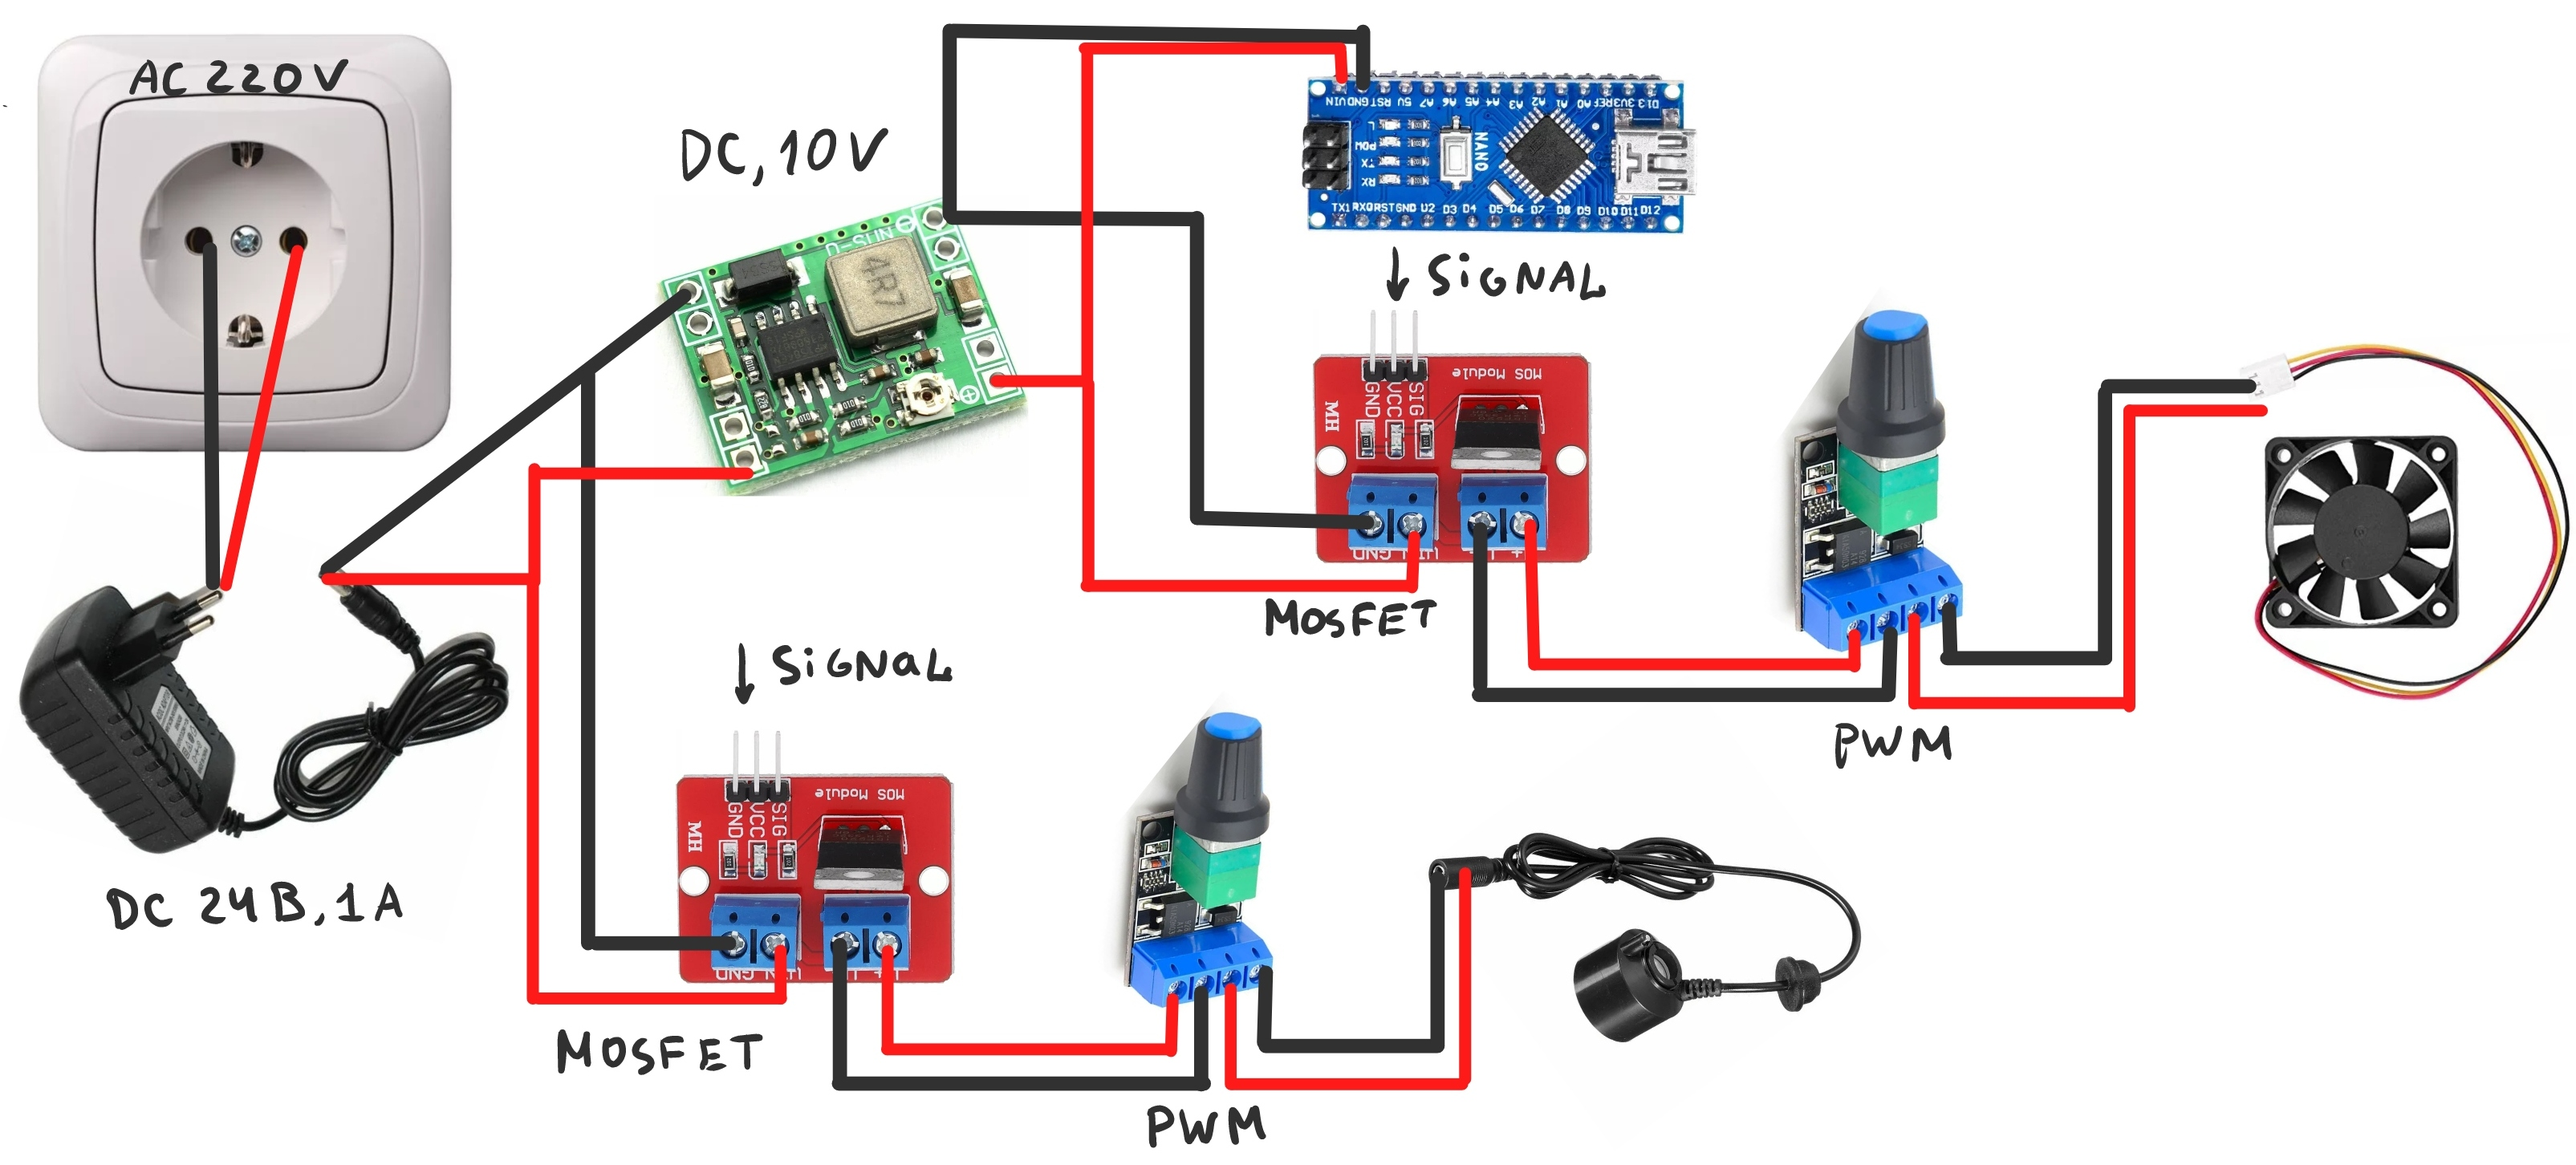
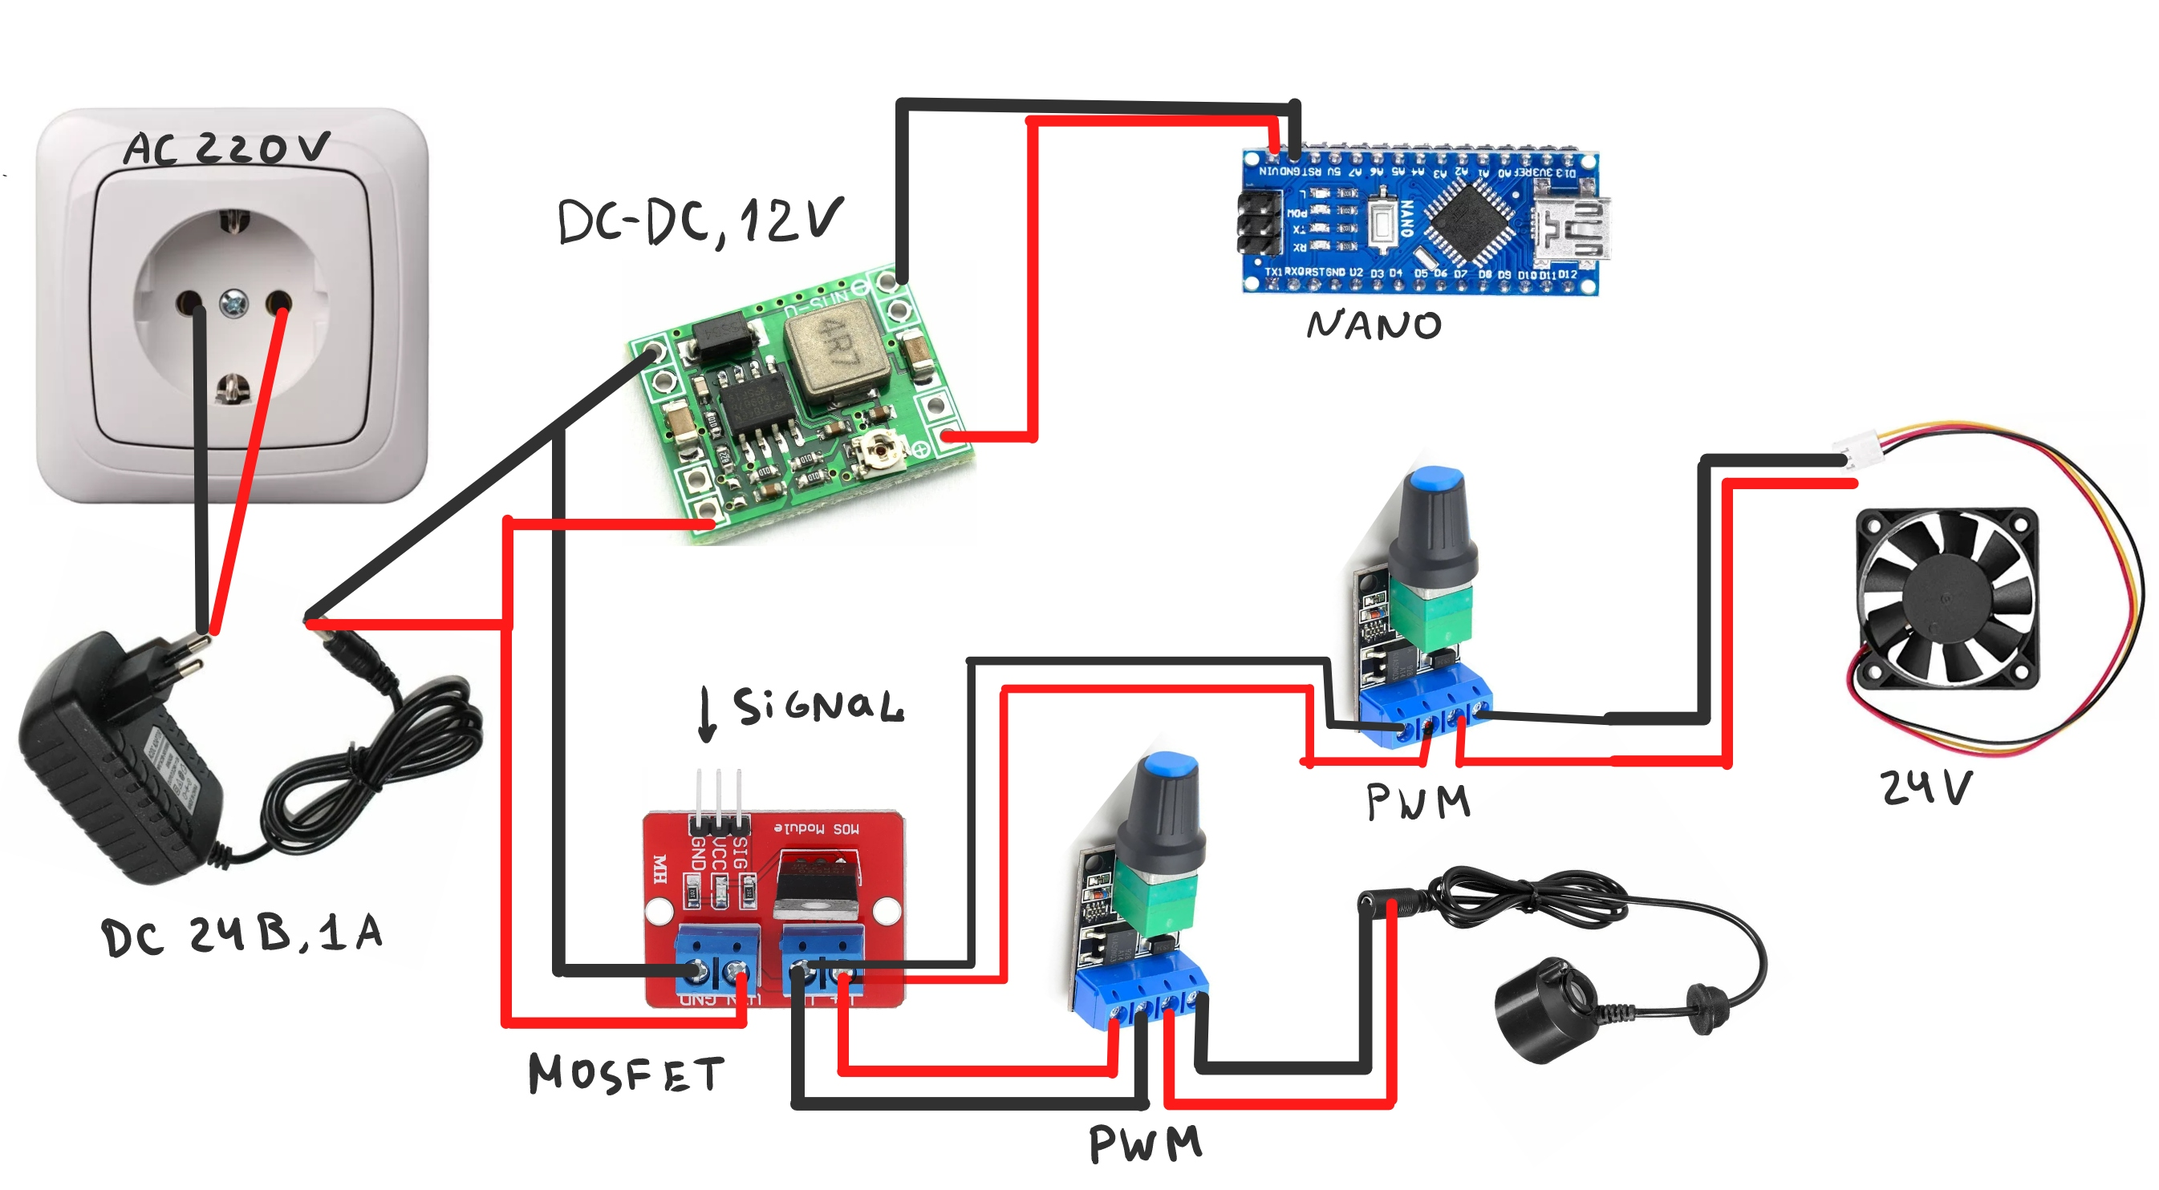
fix bug in script, change scheme

diff --git a/README.md b/README.md
@@ -63,9 +63,9 @@
 
 Испаритель воды получает 24В (номинальные) при этом регулируемые через ШИМ. Также подача питания на него регулируется MOSFET транзистором.
 
-Остальные элементы имеют номинал 10В, поэтому используется понижающий преобразователь DC-DC.
+Остальные элементы имеют номинал 12В, поэтому используется понижающий преобразователь DC-DC для питания Arduino Nano.
 
-На вентилятор подается 10В через ШИМ и MOSFET транзистор.
+На вентилятор подается 24В через ШИМ и MOSFET транзистор.
 
 **Схема питания модулей:**
 
@@ -82,7 +82,7 @@
 + Испаритель 24В
 + Светодиодный модуль KY-016
 + Звуковой модуль KY-006
-+ MOSFET транзистор IRF520N x2
++ MOSFET транзистор IRF520N
 + ШИМ регулятор XK-1074 x2
 + Датчик влажности DHT11
 + Тактовая кнопка KY-004
